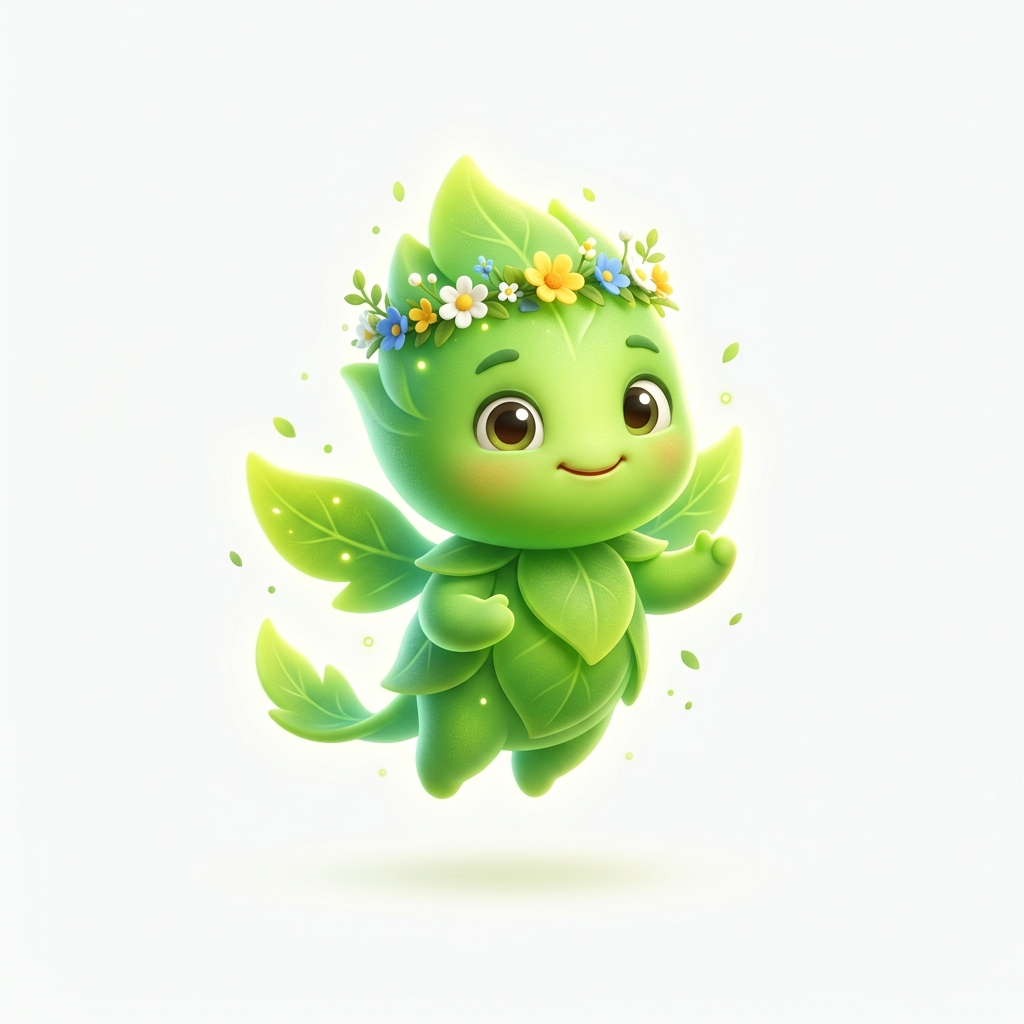
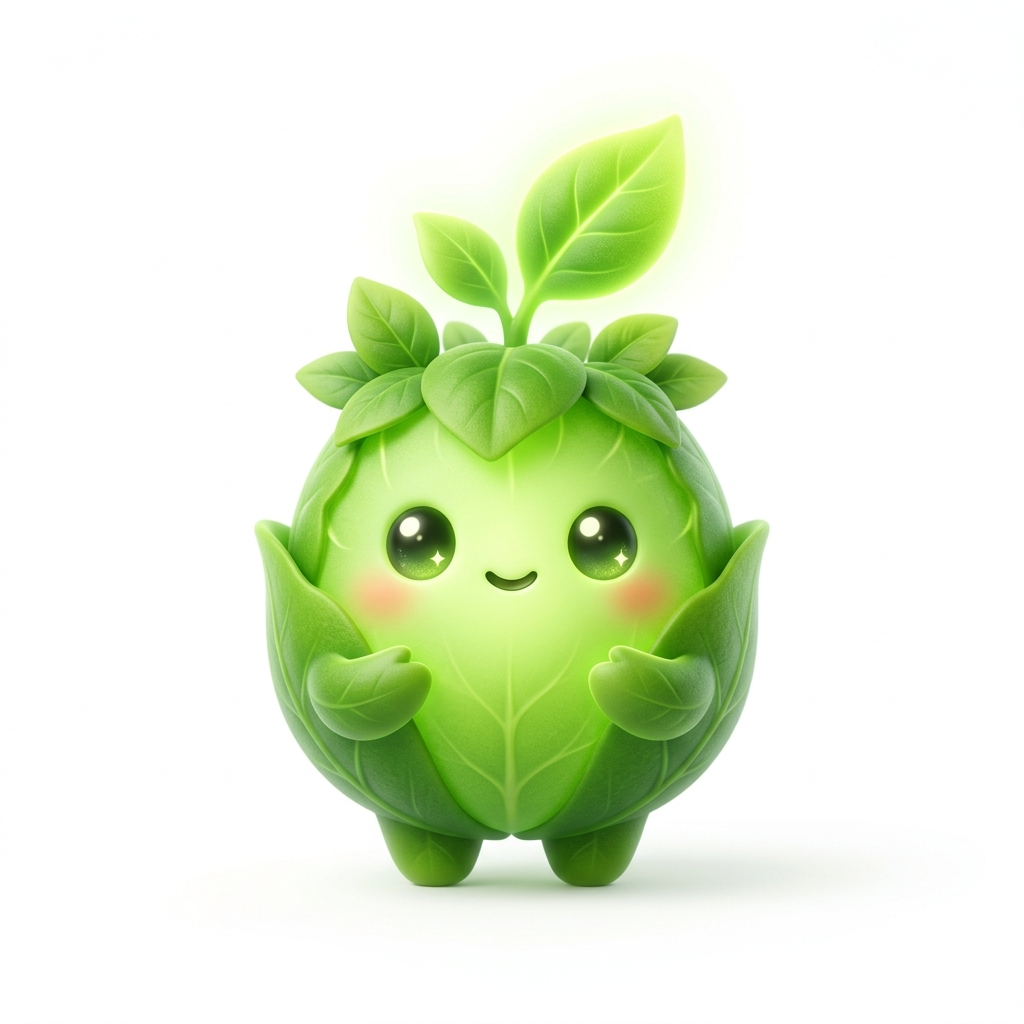
Tighten mascot border and remove excess background space

Changed region(s): [[0.2188, 0.0938, 0.75, 0.875]]

diff --git a/static/style.css b/static/style.css
@@ -742,13 +742,17 @@ h6 {
 }
 
 .mascot-img {
-    width: 120px;
-    height: auto;
-    animation: float-mascot 4s infinite ease-in-out, breathe 3s infinite ease-in-out;
+    width: 100px;
+    height: 100px;
+    object-fit: contain;
+    mix-blend-mode: multiply; /* Makes pure white background transparent */
+    animation: float-mascot 4s infinite ease-in-out, breathe 3s infinite ease-in-out, blink 5s infinite;
     pointer-events: auto;
     cursor: grab;
-    filter: drop-shadow(0 10px 15px rgba(0,0,0,0.1));
+    filter: drop-shadow(0 5px 10px rgba(0,0,0,0.05));
     transition: transform 0.1s;
+    margin: 0;
+    padding: 0;
 }
 
 .mascot-img:active {